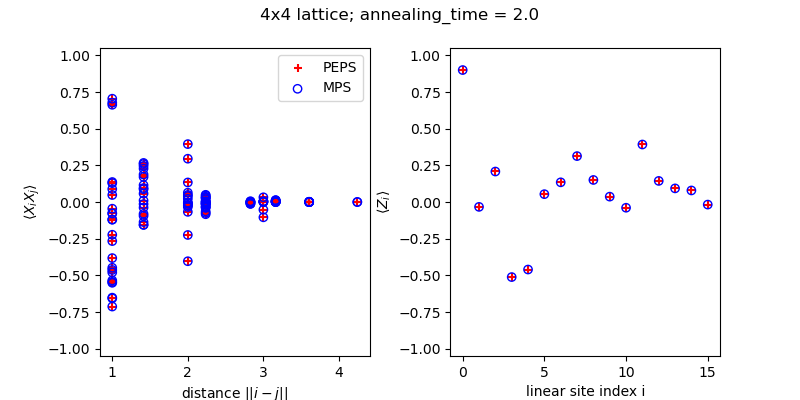
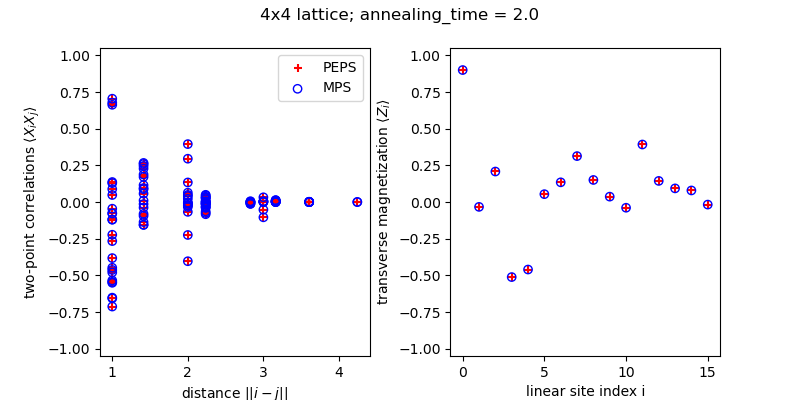
update quickstarts; fix ctmrg init

Changed region(s): [[0.4688, 0.24, 0.5, 0.75], [0.0312, 0.27, 0.0625, 0.57], [0.0312, 0.6, 0.0625, 0.75]]

diff --git a/tests/peps/test_ctmrg.py b/tests/peps/test_ctmrg.py
@@ -113,7 +113,7 @@ def run_ctm(psi, ops, D=8, init='eye', method='2site'):
     return env
 
 
-def check_Z(env, ops, Z_exact, site=None, tol_ev = 1e-4):
+def check_Z(env, ops, Z_exact, site=None, tol_ev = 1e-3):
     Z = env.measure_1site(ops.z(), site=site)
     if site is None:
         Znn1 = env.measure_nn(ops.z(), ops.I())
@@ -126,7 +126,7 @@ def check_Z(env, ops, Z_exact, site=None, tol_ev = 1e-4):
     assert abs(abs(Z) - Z_exact) < tol_ev
 
 
-def check_ZZ(env, ops, ZZ_exact, bond=None, tol_ev = 1e-4):
+def check_ZZ(env, ops, ZZ_exact, bond=None, tol_ev = 1e-3):
     ZZ = env.measure_nn(ops.z(), ops.z(), bond=bond)
     if bond is None:
         ZZ = mean([*ZZ.values()])
@@ -148,7 +148,7 @@ def test_ctm_ising():
     beta = 0.6
     print(f"Lattice: checkerboard infinite; gauges= False; {beta=}; {method=}")
     psi = create_Ising_peps(ops, beta, lattice='checkerboard', dims=(2, 2), boundary='infinite', gauges=False)
-    env = run_ctm(psi, ops, init='eye', method=method)
+    env = run_ctm(psi, ops, init='rand', method=method)
     check_Z(env, ops, Z_exact[beta])
     check_ZZ(env, ops, ZZ_exact[beta])
     #
@@ -156,7 +156,7 @@ def test_ctm_ising():
     beta = 0.3
     print(f"Lattice = square infinite, gauges = False; {beta=}; {method=}")
     psi = create_Ising_peps(ops, beta, lattice='square', dims=(2, 3), boundary='infinite', gauges=True)
-    env = run_ctm(psi, ops, init='rand', method=method)
+    env = run_ctm(psi, ops, init='eye', method=method)
     check_Z(env, ops, Z_exact[beta])
     check_ZZ(env, ops, ZZ_exact[beta])
     #
@@ -164,7 +164,7 @@ def test_ctm_ising():
     beta = 0.6  # CTM should not be really used with "cylinder"
     print(f"Lattice = square cylinder, gauges = False; {beta=}; {method=}")
     psi = create_Ising_peps(ops, beta, lattice='square', dims=(3, 17), boundary='cylinder', gauges=False)
-    env = run_ctm(psi, ops, D=4, init='eye', method=method)
+    env = run_ctm(psi, ops, D=4, init='rand', method=method)
     check_Z(env, ops, Z_exact[beta], site=(1, 6))
     check_Z(env, ops, Z_exact[beta], site=(0, 6))
     check_ZZ(env, ops, ZZ_exact[beta], bond=((1, 8), (0, 8)))

diff --git a/tests/quickstart/test_KZ.py b/tests/quickstart/test_KZ.py
@@ -153,7 +153,8 @@ def test_quickstart_KZ():
     error_Z = np.linalg.norm(Z1 - Z2) / np.linalg.norm(Z1)
     print(f"Relative difference PEPS vs MPS in Z magnetization: {error_Z:0.5f}")
 
-    rs = np.array([np.linalg.norm([s1[0]-s2[0], s1[1]-s2[1]]) for (s1, s2) in Exx_peps])
+    dist = lambda s1, s2: np.linalg.norm([s1[0]-s2[0], s1[1]-s2[1]])
+    rs = np.array([dist(s1, s2) for (s1, s2) in Exx_peps])
     XX1 = np.array([*Exx_peps.values()]).real
     XX2 = np.array([Exx_mps[b2i(*bond)] for bond in Exx_peps.keys()]).real
     error_XX = np.linalg.norm(XX1 - XX2) / np.linalg.norm(XX1)
@@ -165,16 +166,20 @@ def test_quickstart_KZ():
     fig, ax = plt.subplots(1, 2)
     fig.set_size_inches(8, 4)
     plt.subplots_adjust(hspace=0.3, wspace=0.3)
-    ax[0].scatter(rs, XX1, marker='+', color='r', label='PEPS')
-    ax[0].scatter(rs, XX2, marker='o', color='b', label='MPS', facecolors='none')
+    ax[0].scatter(rs, XX1, label='PEPS',
+                  marker='+', color='r')
+    ax[0].scatter(rs, XX2, label='MPS',
+                  marker='o', color='b', facecolors='none')
     ax[0].set_ylim([-1.05, 1.05])
     ax[0].set_xlabel(r"distance $||i - j||$")
-    ax[0].set_ylabel(r"$\langle X_i X_j \rangle$")
+    ax[0].set_ylabel(r"two-point correlations $\langle X_i X_j \rangle$")
     ax[0].legend()
-    ax[1].scatter(np.arange(len(Z1)), Z1, marker='+', color='r', label='PEPS')
-    ax[1].scatter(np.arange(len(Z1)), Z2, marker='o', color='b', label='MPS', facecolors='none')
+    ax[1].scatter(np.arange(len(Z1)), Z1, label='PEPS',
+                    marker='+', color='r')
+    ax[1].scatter(np.arange(len(Z1)), Z2, label='MPS',
+                    marker='o', color='b', facecolors='none')
     ax[1].set_xlabel(r"linear site index i")
-    ax[1].set_ylabel(r"$\langle Z_i \rangle$")
+    ax[1].set_ylabel(r"transverse magnetization $\langle Z_i \rangle$")
     ax[1].set_ylim([-1.05, 1.05])
     fig.suptitle(f"{Lx}x{Ly} lattice; annealing_time = {ta:0.1f}")
     # fig.show()

diff --git a/docs/source/quickstart/kibble_zurek.rst b/docs/source/quickstart/kibble_zurek.rst
@@ -169,7 +169,8 @@ We compare the results obtained using MPS and PEPS routines.
         error_Z = np.linalg.norm(Z1 - Z2) / np.linalg.norm(Z1)
         print(f"Relative difference PEPS vs MPS in Z magnetization: {error_Z:0.5f}")
 
-        rs = np.array([np.linalg.norm([s1[0]-s2[0], s1[1]-s2[1]]) for (s1, s2) in Exx_peps])
+        dist = lambda s1, s2: np.linalg.norm([s1[0]-s2[0], s1[1]-s2[1]])
+        rs = np.array([dist(s1, s2) for (s1, s2) in Exx_peps])
         XX1 = np.array([*Exx_peps.values()]).real
         XX2 = np.array([Exx_mps[b2i(*bond)] for bond in Exx_peps.keys()]).real
         error_XX = np.linalg.norm(XX1 - XX2) / np.linalg.norm(XX1)
@@ -181,18 +182,24 @@ We compare the results obtained using MPS and PEPS routines.
         fig, ax = plt.subplots(1, 2)
         fig.set_size_inches(8, 4)
         plt.subplots_adjust(hspace=0.3, wspace=0.3)
+        ax[0].scatter(rs, XX1, label='PEPS',
+                      marker='+', color='r')
+        ax[0].scatter(rs, XX2, label='MPS',
+                      marker='o', color='b', facecolors='none')
         ax[0].scatter(rs, XX1, marker='+', color='r', label='PEPS')
         ax[0].scatter(rs, XX2, marker='o', color='b', label='MPS', facecolors='none')
         ax[0].set_ylim([-1.05, 1.05])
         ax[0].set_xlabel(r"distance $||i - j||$")
-        ax[0].set_ylabel(r"$\langle X_i X_j \rangle$")
+        ax[0].set_ylabel(r"two-point correlations $\langle X_i X_j \rangle$")
         ax[0].legend()
-        ax[1].scatter(np.arange(len(Z1)), Z1, marker='+', color='r', label='PEPS')
-        ax[1].scatter(np.arange(len(Z1)), Z2, marker='o', color='b', label='MPS', facecolors='none')
+        ax[1].scatter(np.arange(len(Z1)), Z1, label='PEPS',
+                      marker='+', color='r')
+        ax[1].scatter(np.arange(len(Z1)), Z2, label='MPS',
+                      marker='o', color='b', facecolors='none')
         ax[1].set_xlabel(r"linear site index i")
-        ax[1].set_ylabel(r"$\langle Z_i \rangle$")
+        ax[1].set_ylabel(r"transverse magnetization $\langle Z_i \rangle$")
         ax[1].set_ylim([-1.05, 1.05])
         fig.suptitle(f"{Lx}x{Ly} lattice; annealing_time = {ta:0.1f}")
         fig.show()
 
-    ![alt text](corr_4x4_ta=2.0.png)
+    .. image:: corr_4x4_ta=2.0.png
